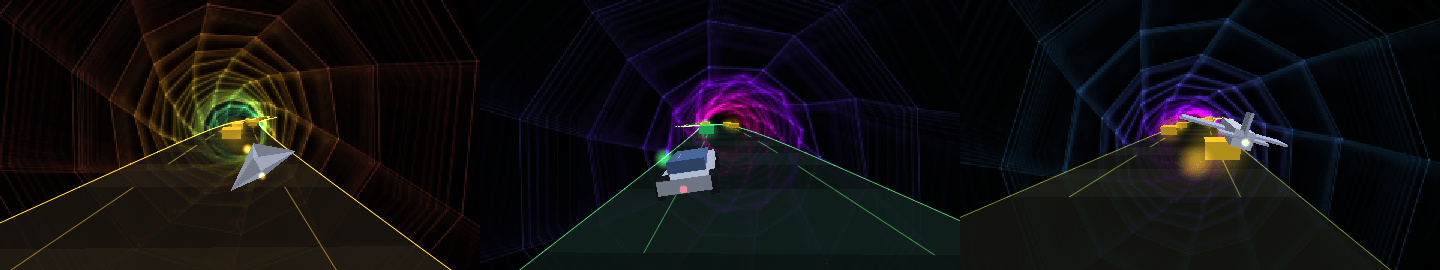
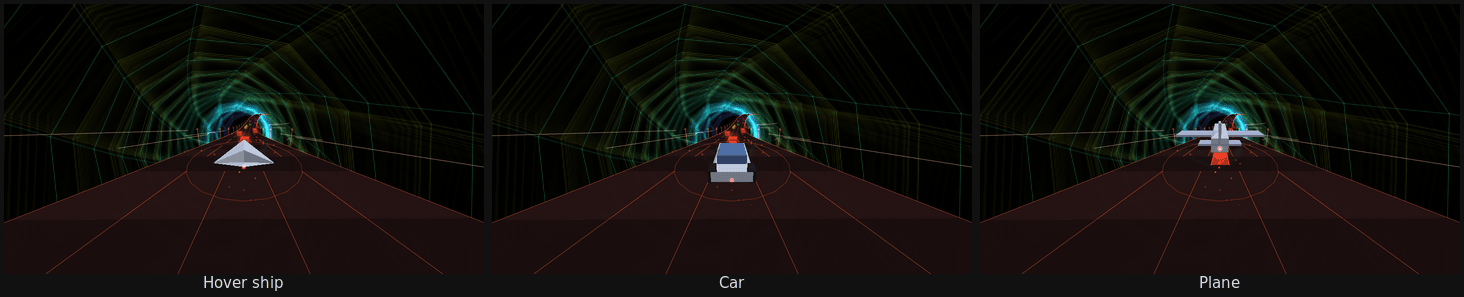
checkpoint: I've updated the README: the game now has its own **"Ride (the game)"**
AI-Pipe-Checkpoint: true

diff --git a/README.md b/README.md
@@ -28,13 +28,10 @@ Sound Scope:
 
 ![The nine visualiser looks: Scope, Rings, Dashboard, Ambient, Kaleido, Polygon, Terrain, Tunnel and Cloud](docs/visualiser-looks.png)
 
-**Ride**, an Audiosurf-style game on the song that is playing (`G` on the Now playing page):
+**Ride**, an Audiosurf-style game on the song that is playing (`G` on the Now playing page; see
+[Ride](#ride-the-game)):
 
-![Riding a song: the road, coloured notes to catch and the hover ship over the Tunnel visualiser](docs/ride.png)
-
-Ride in a hover ship, a car or a plane:
-
-![The hover ship, the car and the plane](docs/ride-craft.png)
+![Riding a song: the road, notes to catch and a catch burst over the Rings visualiser](docs/ride.png)
 
 ## What it does
 
@@ -113,32 +110,8 @@ Ride in a hover ship, a car or a plane:
   Settings → Now playing visualiser picks the look, change interval, resolution, sharp or smooth pixels,
   dithering and frame rate. The picture is scaled straight into the window, so full screen costs
   about a quarter of one CPU core.
-- **Ride**: an Audiosurf-style game on the song that is playing, over the visualiser. Press `G`
-  (or the Ride button) on the Now playing page at any point in a song; the music never stops.
-  - The song is analysed in the background (about a second): onsets in three bands, sustained
-    sounds, a steady beat grid, loudness and sections. The **Beat This!** AI model (ISMIR 2024, built into the exe,
-    runs on the CPU) then refines the beats in a few more seconds.
-  - The analysis becomes a road that climbs through calm parts and drops fast through loud ones,
-    turning at section changes, with notes on the beats in five lanes. Bass, mids and highs each
-    get a home lane per section and walk around it, and every other phrase mirrors the layout.
-    Notes are coloured cool to hot by intensity; grey blocks are to be avoided. **Hold notes** come
-    from sustained sounds (held chords, synths, sung notes): a glowing ribbon down the lane. Catch
-    its head and stay on it to earn points as you go, plus a bonus for riding it to the end;
-    steering off early breaks it, but not your combo. Where the music moves on over the held
-    sound, the ribbon slides into the neighbouring lanes and you follow it (more bends on harder
-    levels).
-  - Steer with the mouse (its position across the view) or `←`/`→`. Catch notes, avoid greys and
-    build a combo for a ×2–×4 multiplier. A catch flashes, throws sparks and a shockwave ring and
-    pops up its points; a grey flashes red and shakes the camera; missed notes fly past. You can't
-    fail: every ride goes to the end of the song.
-  - The ride starts wherever the song is (with a 2 s run-up) and carries on into the next song,
-    whose track is built while you ride. Each song ends with a results card (score, accuracy,
-    best combo, personal best).
-  - Restarting the song (Previous, or seeking to the start) rides it again. `Esc` stops.
-  - Tracks and scores are kept in the library database. Settings → Storage shows the saved tracks
-    and can clear them; your scores stay.
-  - Settings → Ride: difficulty (Casual, Pro, Elite; scores per level), hover ship, car or plane,
-    30 or 60 fps, an audio delay for wireless headphones, and the AI on or off.
+- **Ride**: an Audiosurf-style game on the song that is playing, built from the song itself and
+  played over the visualiser. See [Ride](#ride-the-game).
 - **Zoom**: 80–150 % (`Ctrl+=`, `Ctrl+−`, `Ctrl+0`, or Settings), remembered.
 - **Windows integration**: a themed title bar (drag, double-click to maximise, resize from any
   edge, live redraw while resizing), tray icon with menu, minimise/close to tray, media keys
@@ -199,6 +172,56 @@ Discord desktop app over its local IPC pipe, retries every 15 s while Discord is
 stays within Discord's rate limit (5 updates per 20 s). For a build with a built-in ID, put
 it into `CLIENT_ID` in `crates/plexdio/src/discord.rs`; `PLEXDIO_DISCORD_CLIENT_ID` also
 works for testing. An ID entered in Settings always wins.
+
+## Ride (the game)
+
+Ride turns the song that is playing into a road, in the spirit of Audiosurf. Press `G` (or the
+**Ride** button) on the Now playing page at any point in a song: the music never stops, the road
+is ready in about a second, and the ride carries on from song to song until you stop it.
+
+![Four moments of a ride: a curved hold ahead, riding a hold, catching notes, and a loud part with a wide view and streaks](docs/ride-moments.png)
+
+### How to play
+
+- **Steer** with the mouse (its position across the view) or `←`/`→`. The cursor hides over the
+  game only.
+- **Catch** the coloured blocks in the five lanes. Hot colours (red, yellow) are worth more than
+  cool ones (blue, violet). A run of catches builds a **combo**: ×2 at 10, ×3 at 25, ×4 at 50.
+- **Avoid** the grey blocks: they cost points and break the combo.
+- **Hold notes** are glowing ribbons. Catch the head and stay on the ribbon to earn points as you
+  go, plus a bonus at the end. Some ribbons **curve** into the next lanes, following the music;
+  follow them. Leaving a hold early breaks it but keeps your combo.
+- You can't fail: every ride goes to the end of the song. Each song ends with a results card
+  (score, accuracy, best combo, and your personal best for that song and level).
+- `Esc` stops riding. Restarting the song (Previous, or seeking to the start) rides it again.
+
+### How the road is made
+
+- **Analysis** (about a second, in the background, while the music plays): note starts in three
+  bands (bass, mids, highs), sustained sounds, loudness and the song's sections. A steady beat
+  grid comes from a classic beat tracker, refined a few seconds later by the **Beat This!** AI
+  model (ISMIR 2024), which is built into the exe and runs on the CPU at low priority.
+- **The road** climbs slowly through calm parts and drops fast through loud ones, turning at
+  section changes. Its speed follows the music: from 0.6× in calm parts to 1.5× in the loudest,
+  where the view widens, the camera drops and streaks rush past.
+- **Notes** sit on beats (and half- or quarter-beats on harder levels) where the song has a note
+  start. Each band gets a home lane per section and walks around it, and every four bars the
+  layout mirrors. Sustained sounds become holds; notes played over them become a hold's curves.
+- Tracks and scores are kept in the library database, so a song you've ridden loads instantly.
+  The next song in the queue is prepared while you ride.
+
+### Settings
+
+Settings → **Ride**: difficulty (Casual, Pro, Elite: more notes, more curves and a faster road;
+scores are kept per level), what you ride in, 30 or 60 fps, an audio delay for wireless
+headphones, and the AI beat model on or off. Settings → Storage → **Ride tracks** shows the saved
+tracks and clears them (your scores stay).
+
+![The Ride settings card](docs/ride-settings.png)
+
+Ride in a hover ship, a car or a plane:
+
+![The hover ship, the car and the plane on a loud stretch](docs/ride-craft.png)
 
 ## Status
 
@@ -389,11 +412,11 @@ memory under Wine.
 ## Testing
 
 ```sh
-cargo test --workspace                                  # 185 tests: parsing, sync, audio, EQ, queue, playlists, downloads, cast, Ride, ...
+cargo test --workspace                                  # 191 tests: parsing, sync, audio, EQ, queue, playlists, downloads, cast, Ride, ...
 cargo test --workspace --target x86_64-pc-windows-gnu   # same suite under Wine
 semgrep scan --config p/default --metrics off crates     # 0 findings
 cargo run --release -p plexdio --example retrovis_preview # renders every Now playing look to target/retrovis/*.png
-cargo run --release -p plexdio --example ride_preview -- --ai --frames --clicks SONG...  # Ride analysis timelines, ride shots, beat-click WAVs
+cargo run --release -p plexdio --example ride_preview -- --ai --frames --gallery --clicks SONG...  # Ride timelines, ride shots, README shots, beat-click WAVs
 cargo clippy --workspace --all-targets -- -D warnings
 ```
 
